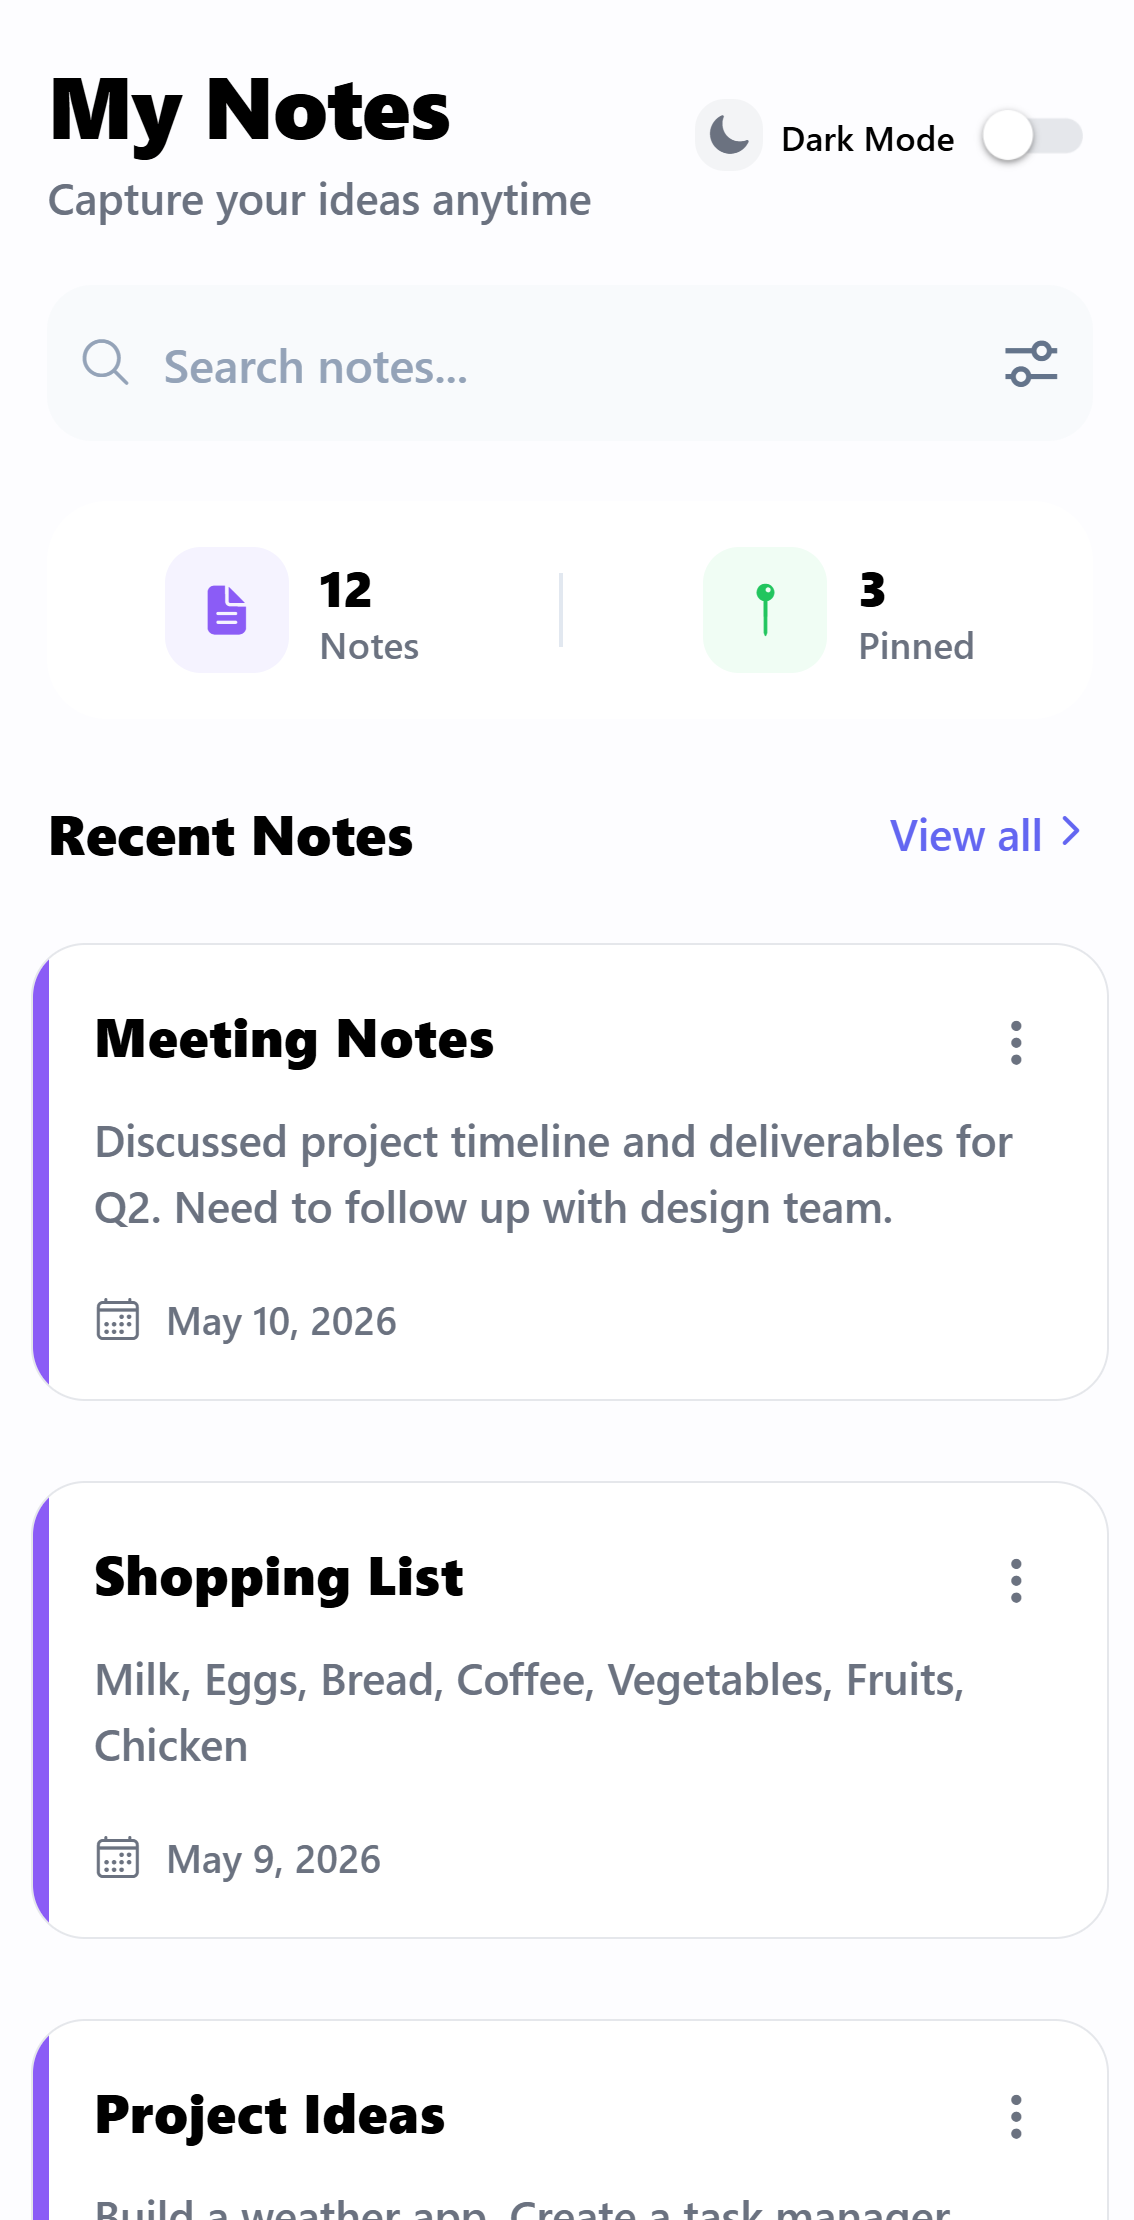
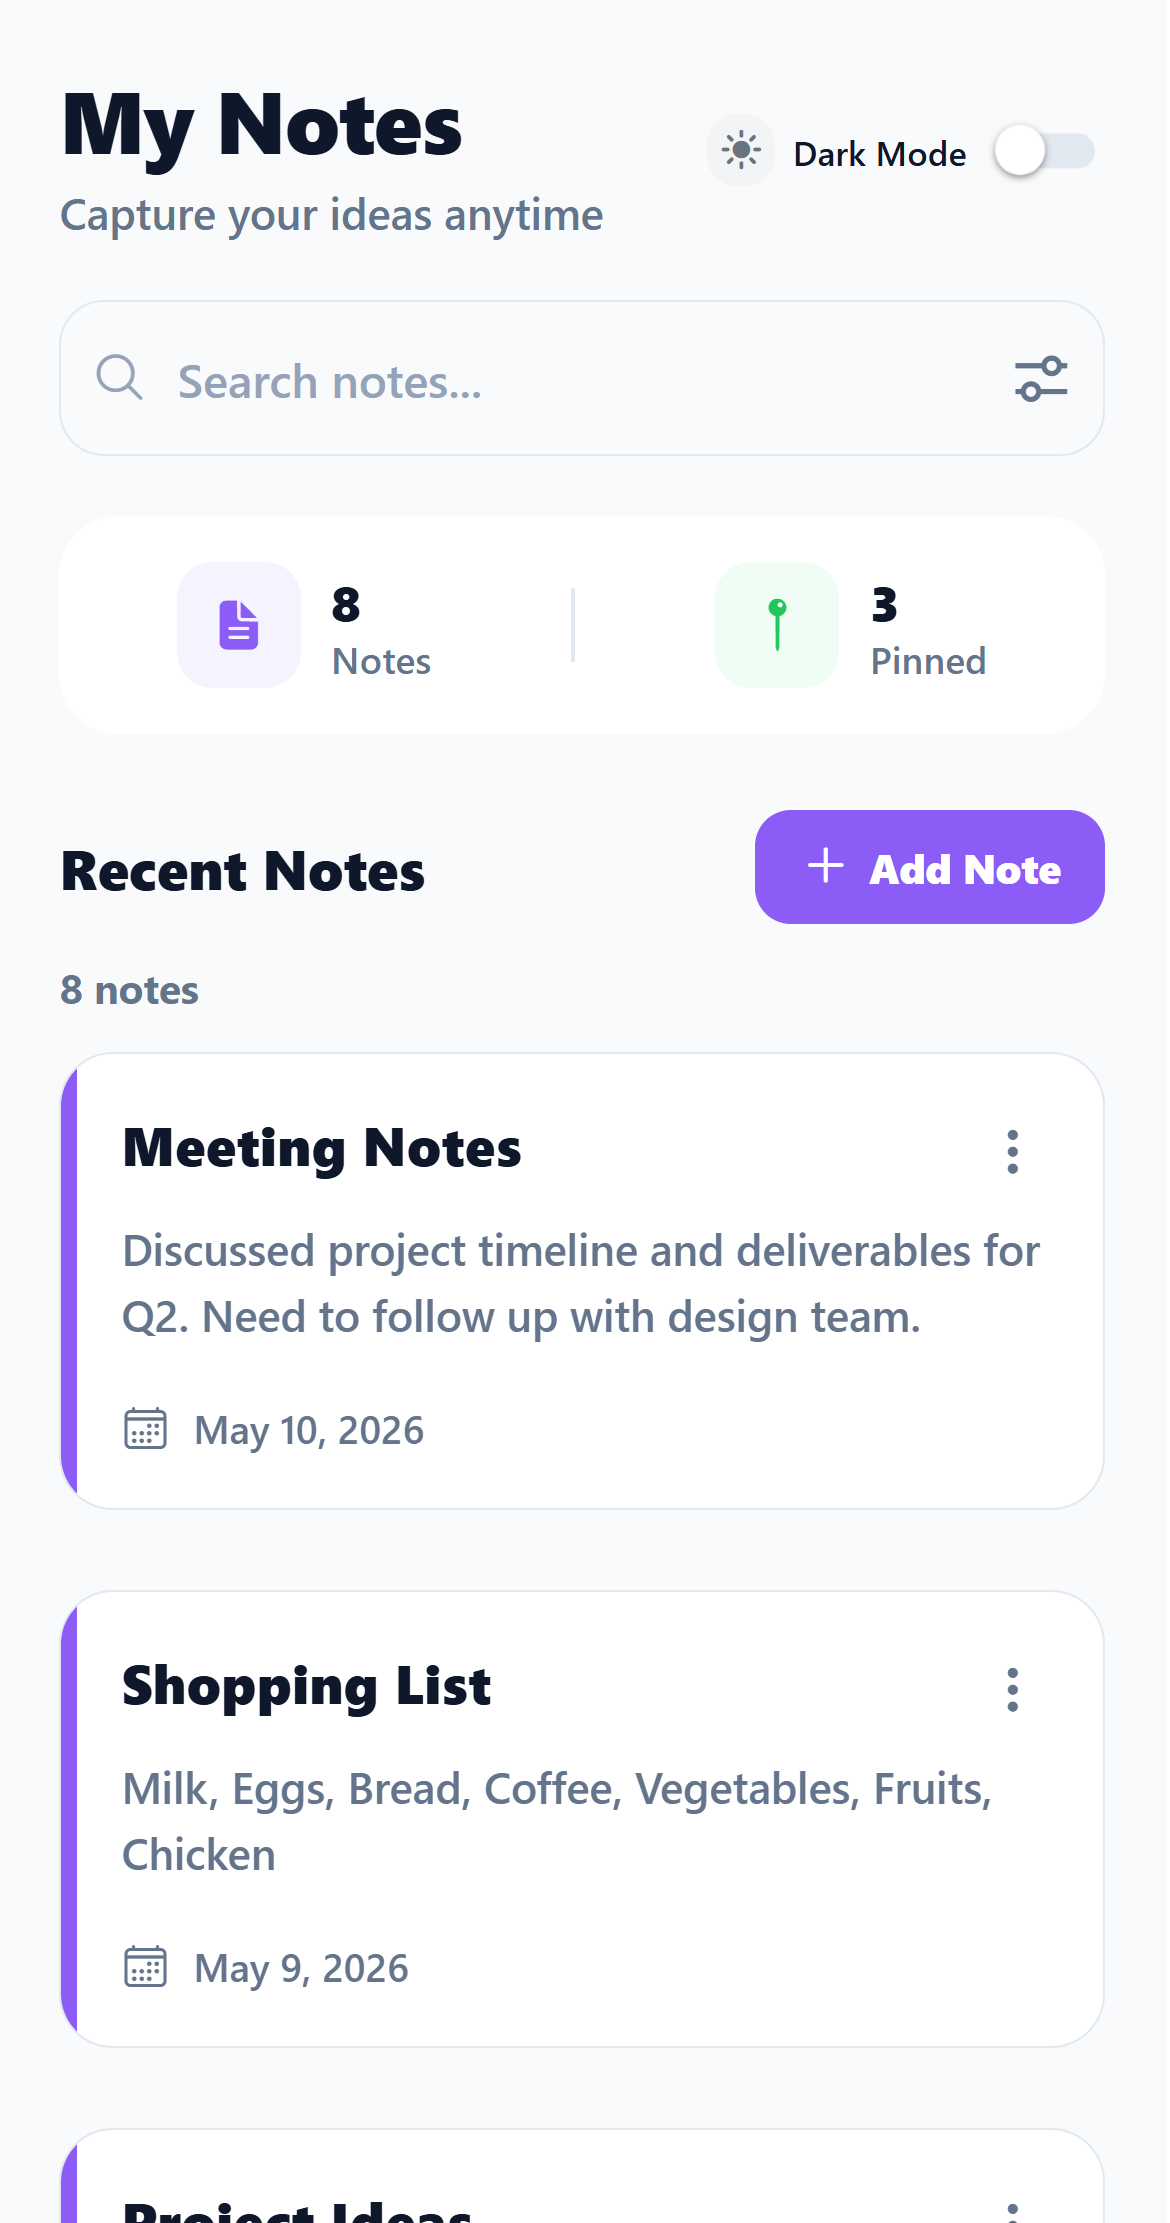
refactor: readme file

diff --git a/README.md b/README.md
@@ -80,14 +80,6 @@ It includes a title input, multiline content input, image background header, bac
 
 ![Note Editor Screen](./assets/screenshots/note-editor.png)
 
-## Author
-
-Ansh
-
-GitHub: [https://github.com/Anshmittal86](https://github.com/Anshmittal86)
-
-LinkedIn: [https://linkedin.com/in/Anshmittal86](https://linkedin.com/in/Anshmittal86)
-
 ## Installation
 
 Clone the repository:
@@ -114,8 +106,10 @@ Start Expo server:
 npx expo start
 ```
 
-## Submission
+## Author
 
-Public GitHub Repository: [https://github.com/Anshmittal86/proj-notesAppUi-react-native-chaicode](https://github.com/Anshmittal86/proj-notesAppUi-react-native-chaicode)
+Ansh
 
-Demo Video: [https://drive.google.com/file/d/1d6mxKbOJNtnU8PL-hox56p5VNdWImck\_/view?usp=sharing](https://drive.google.com/file/d/1d6mxKbOJNtnU8PL-hox56p5VNdWImck_/view?usp=sharing)
+GitHub: [https://github.com/Anshmittal86](https://github.com/Anshmittal86)
+
+LinkedIn: [https://linkedin.com/in/Anshmittal86](https://linkedin.com/in/Anshmittal86)